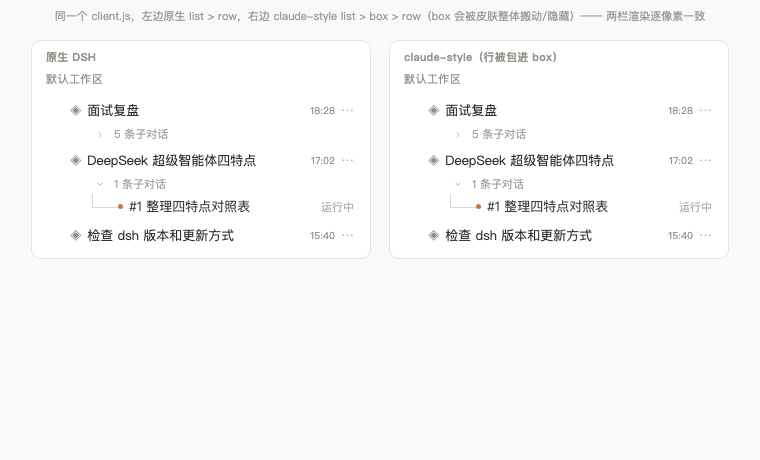
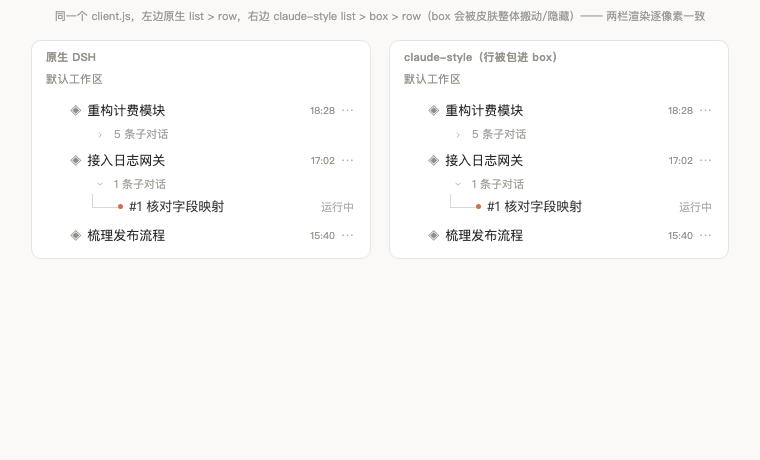
docs(0.2.1): README 去真实项目名 + 补 npm 安装 + 未完成事项移入 docs/ROADMAP.md
- 示例数据与渲染截图换成中性项目名（原 0.2.0 的 README 用了真实项目名，已随 npm 公开）
- lib/client.js 三处注释里的真实项目名一并替换
- README 删除「三平台 / 诚实边界」章节，改为「兼容性」+ 指向 docs/PLATFORM.md 与 docs/ROADMAP.md
- README 安装章节补 npm 一条
- 新增 docs/ROADMAP.md：已完成清单 / 未完成三项 / 已知缺口 / 仓库余留
- 版本 0.2.0 → 0.2.1（只改文档与注释，代码行为不变）

diff --git a/lib/client.js b/lib/client.js
@@ -23,7 +23,7 @@
  * ── 为什么对所有模式生效 ─────────────────────────────────────────────────────
  * 父子关系不来自 Multitask，而来自宿主自己的会话摘要：`origin === 'subagent'`
  * + `parentId`。凡是子代理（不管是谁派的、什么模式派的）都带这两个字段，所以
- * 标准模式下的「面试复盘」那种会话也会被收进树里。
+ * 标准模式下的普通会话派出的子代理也会被收进树里。
  *
  * ⚠ 本文件必须先于 package.json 的 `dsh.client` 声明存在：声明了 `dsh.client`
  * 而 `exports["./client"]` 指不到文件时，客户端模块系统会抛
@@ -63,7 +63,7 @@ window.__ModuleLoader__.load({
 		 *
 		 * 用户反馈（m02555）：「如果每次都重新分配子智能体会不会越累积越多，浪费空间？」
 		 * 会。派活就是新建会话，旧的永远保留（这是宿主 append-only 的行为，不覆盖）。
-		 * 真机数据：一次「面试复盘」就留下 4 条子会话。所以超过这个数就折起来，
+		 * 真机观察：一个主会话很容易攒下 4 条以上子会话。所以超过这个数就折起来，
 		 * 只留「还有 N 条更早的子对话」一行。
 		 */
 		const MAX_VISIBLE = 3;
@@ -309,7 +309,7 @@ window.__ModuleLoader__.load({
 		 *
 		 * 这是宿主官方给父会话看的「我派出去哪些子代理」目录，条目形如
 		 * `{ id, createdAt, mode: "one-shot" | "continuable", label? }`。
-		 * 关键是 `label`：这是**派单时起的短名**（例如「山东云鼎问题书面化」），
+		 * 关键是 `label`：这是**派单时起的短名**（例如「拆分价格计算器」），
 		 * 比 `displayTitle` 干净得多 —— 后者在没有短名时会退化成任务书正文，
 		 * 于是侧栏上出现「You are a worker executing…」这种看不懂的一长串。
 		 */

diff --git a/docs/ROADMAP.md b/docs/ROADMAP.md
@@ -1,0 +1,83 @@
+# 路线图与待办
+
+本文件是**开发者的账本**：已完成的放在这里只为对照，未完成 / 待验证 / 已知缺口都记在这。
+README 只写已可用、已验证的部分。
+
+版本：`0.2.1`（npm 已发布；0.2.0 的 README 含真实项目名，已被 0.2.1 替换）。最后更新：2026-11-09。
+
+---
+
+## 一、已完成
+
+| 版本 | 内容 | 验证 |
+| --- | --- | --- |
+| 0.1.0 | 侧栏子对话树（缩进、连接线、编号、短名、状态、折叠、localStorage 记忆） | 真宿主 CDP + 截图 |
+| 0.2.0 Phase 0 | 从 `dsh-multitask` 1.3.3 分叉出 `router-worker` 模式（协调者窄工具面、四类 worker、两级审批闸门、Windows 工作区 ACL 修复） | 假 ctx 探针 + 沙盒启动 |
+| 0.2.0 Phase 1 | 五份中文人格、`ticket_create`（title 必填 2–40 字，写进 `subagentCatalog.label`）、keep 白名单接线 | 探针 + 真机三张并行工单 |
+| 0.2.0 Phase 2 | 工单落 sqlite（`tickets.db`）、dispatcher 排队、outbox 退避回流、重启恢复 | 单测 + 真机 |
+| 0.2.0 Phase 3 | 侧栏树内联状态条（`N 运行中 / M 排队` + 排队项），宿主半 GET 路由 | CDP + 真机 |
+| 0.2.0 Phase 4 | Watchdog（60s 巡检 / 15min 静默判死 / 30min 排队提醒，`session/event` 心跳） | 9 个单测 |
+| 0.2.0 | 设置页「Router 项目经理」（运行限制 / 四类 worker 模型 / 运行时只读信息） | mock 探针 + 真宿主 CDP |
+| 0.2.0 | 侧栏树**结构无关**渲染（兼容 `dsh-claude-style` 等自定义皮肤） | 单测 + CDP 逐像素几何 |
+| 0.2.0 | 改名 `dsh-subagent-tree` → `dsh-router-worker`；npm 发布；GitHub Release 工作流 | 端到端装 npm 包启动 |
+| 0.2.0 | 三平台 CI 矩阵（ubuntu / windows / macos × Node 24）+ 39 个单测 | GitHub Actions 首跑全绿 |
+| 0.2.1 | 文档与隐私修正（README / CHANGELOG / 截图去真实项目名；未完成事项移入本文件） | 39 单测 + pack 校验 |
+
+---
+
+## 二、未完成 / 待验证
+
+### 1. Windows / Linux 真机 GUI 与 ACL 冒烟（唯一的发布硬要求）
+
+CI 只验证到代码层（语法 + 单测 + 打包）。Electron GUI 与 Win32 安全描述符无法在 CI
+复现，本机开发环境也只有 macOS。**清单见 [PLATFORM.md](PLATFORM.md#真机冒烟清单给用户)。**
+
+四项要逐条确认：
+
+- [ ] 不出现 `SetNamedSecurityInfoW failed (Win32 5)`（Windows ACL / 安全描述符）
+- [ ] pwsh / bash 工具按平台正确启用（`composition.mjs:1119/1124`）
+- [ ] 子代理能在真机上写文件（工作区 ACL 前缀比较放行正确）
+- [ ] 侧栏树短名 / 缩进 / 折叠在真机 GUI 下正常
+
+任一平台四项全过，才把发布口径从「macOS 真机已验」升级。
+
+### 2. 工单看板的完整面板（Phase 3 的重版）
+
+0.2.0 做的是**轻量版**：侧栏树里内联一行状态条。完整版原计划走 `sidebar.panellist`
+（replaceRisk `none`，安全座），点开是按状态分组的独立面板，每行带耗时、可「重试 / 取消」。
+
+当时判断轻量版够用（排队项才是真缺口），**若真机上发现排队多了看不清，再做面板**。
+详见 [plan-router-worker.md](plan-router-worker.md) 第十节。
+
+### 3. 右键菜单「以子对话方式继续」
+
+现状：会话右键菜单只有宿主原生的「分叉会话」。想做的是右键直接开一张子对话，并且
+**可反复追问**（continuable 子代理）。
+
+三方案与工作量已写在 [plan-subconversation-menu.md](plan-subconversation-menu.md)：
+A 右键 + 输入框（约 1 天，推荐）／B continuable 子代理（1–2 天）／C 替换
+`sidebar.workspaces`（不推荐，`replaceRisk: shadows-shipped-ui`）。
+
+三个待定问题也记在那份文件里（子对话能否继续聊 / 用什么模式跑 / 结果怎么回主会话）。
+
+---
+
+## 三、已知缺口（不计划修复，属设计边界）
+
+- **不是原生行**。宿主把左侧浏览区声明成 single 独占插槽，插件 slots 挂不进去，所以用
+  DOM 注入。代价：子行没有置顶 / 重命名 / 归档 / 拖拽排序，点击是「打开」不是「选中」。
+- **嵌套只画一层**。DSH 委派深度默认 1（worker 不能再派），一层够用；真出现孙会话时，
+  它会在自己的父行下被单独渲染。
+- **`Side: ` 开头的侧边对话不进来**，那是宿主自己的功能，语义上不是子代理。
+- **`node:sqlite` 不可用时降级内存表**：功能全在，但重启即失忆（`engines.node >= 24` 已声明）。
+- **私有 provider 不收敛成官方 `spawn`**：provider 名是四类 worker 的唯一路由键，收敛会让
+  PTC / minimal 人格静默塌缩。理由与契约测试见 [PLATFORM.md](PLATFORM.md#关于把私有-provider-收敛成官方-spawn-的决策)。
+
+---
+
+## 四、仓库余留
+
+- npm 上有一个 `0.0.0-stage` 占位版本（staged publish 机制自动创建，`latest` 指向 `0.2.0`）。
+  当前 token 是 bypass-2FA 的 automation token，npm 策略禁止它做 `unpublish`，所以删不掉。
+  **无害**，安装时拿的是 `latest`。
+- 若要清掉它，需在 npm 网页上人工删除（需要 2FA 确认）。
